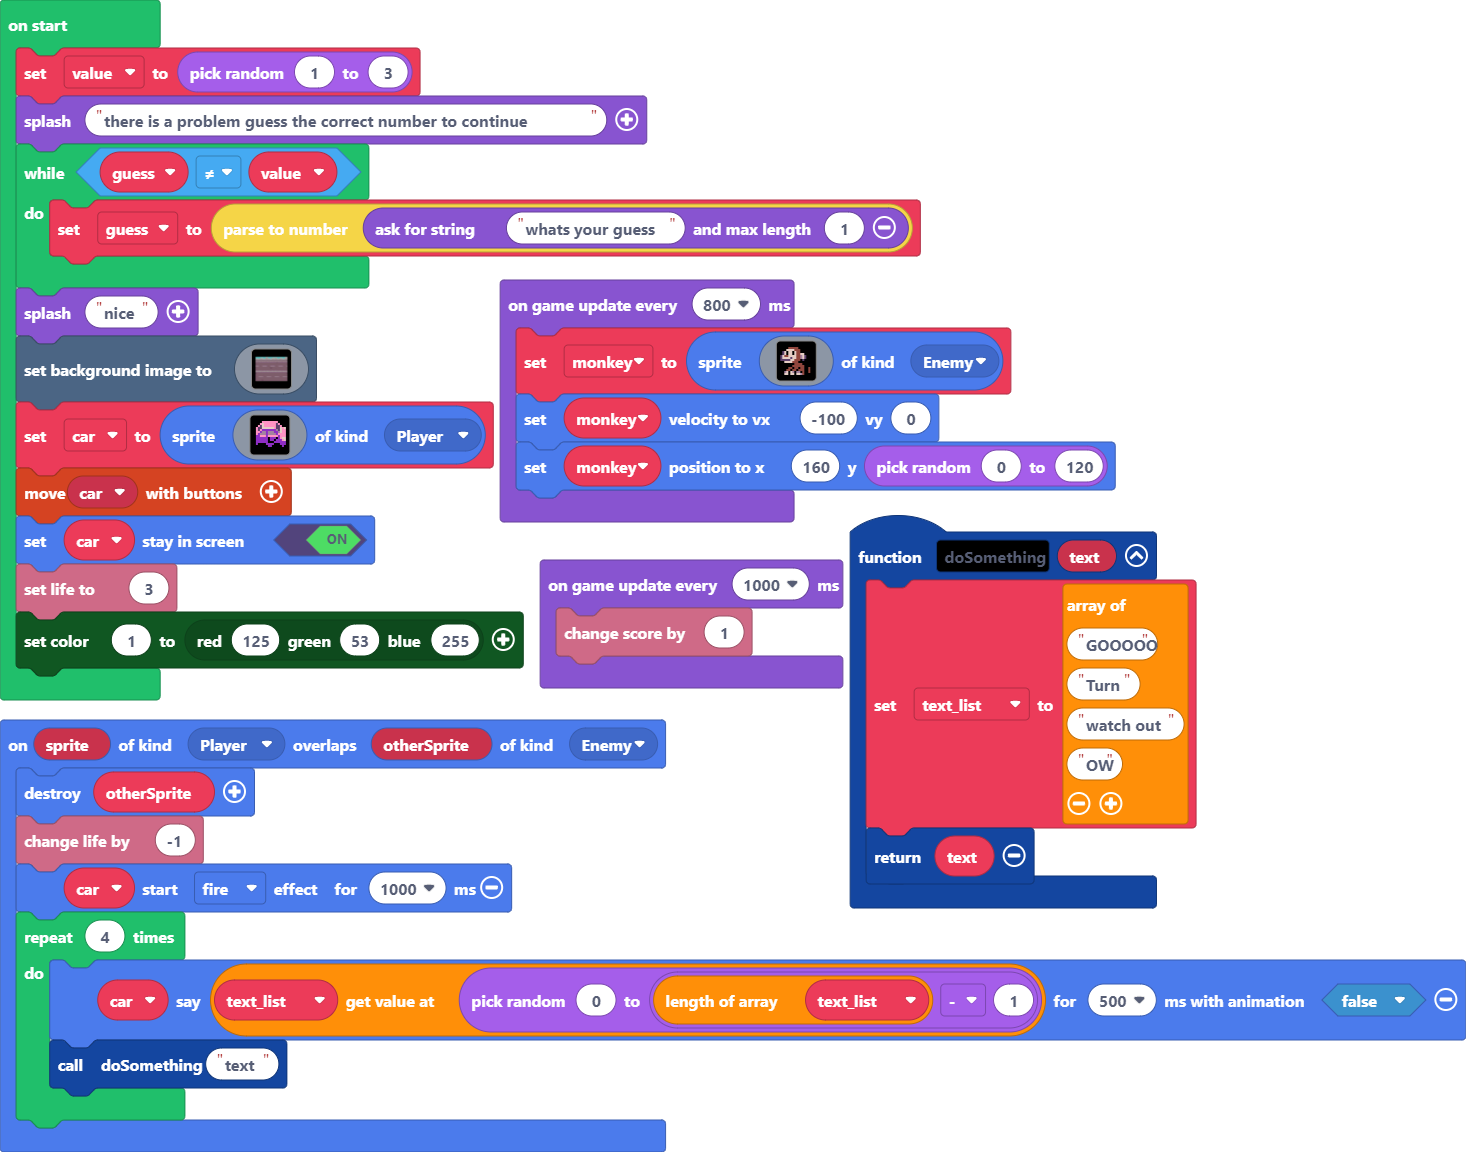
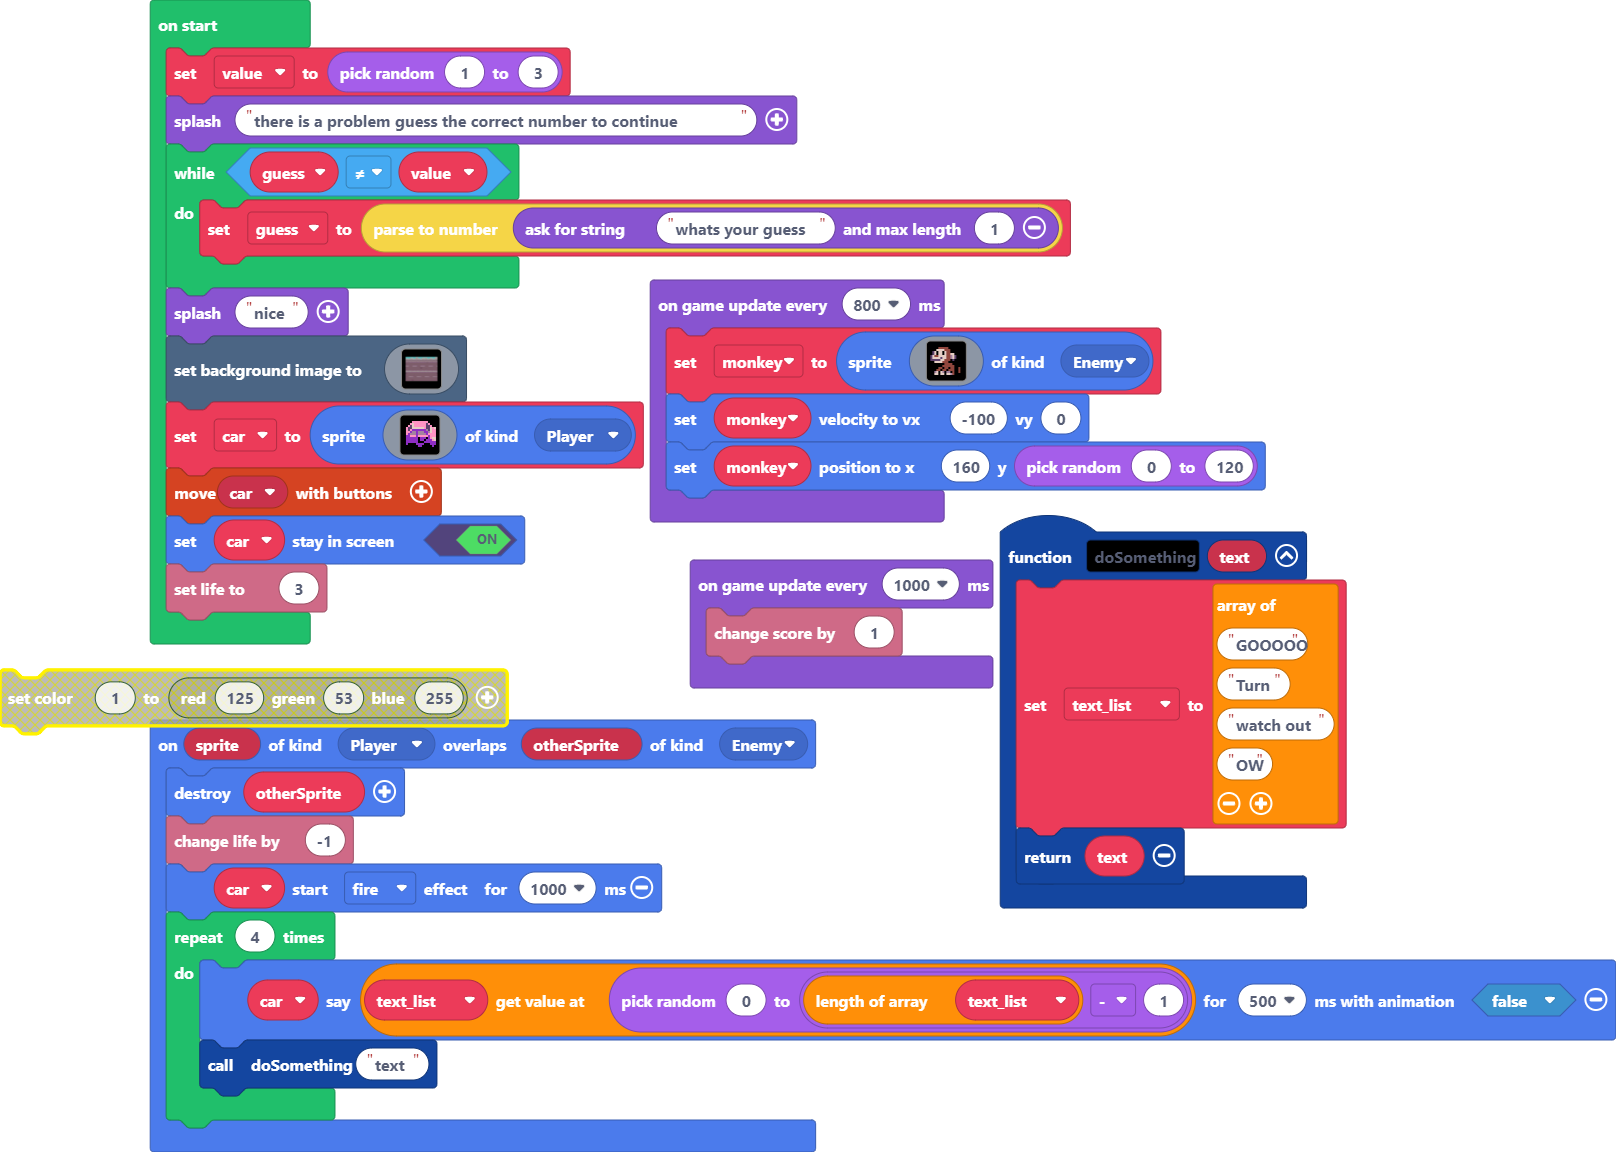
Update main.blocks, main.ts

diff --git a/main.ts b/main.ts
@@ -169,7 +169,6 @@ car = sprites.create(img`
 controller.moveSprite(car)
 car.setStayInScreen(true)
 info.setLife(3)
-color.setColor(1, color.rgb(125, 53, 255))
 game.onUpdateInterval(1000, function () {
     info.changeScoreBy(1)
 })
